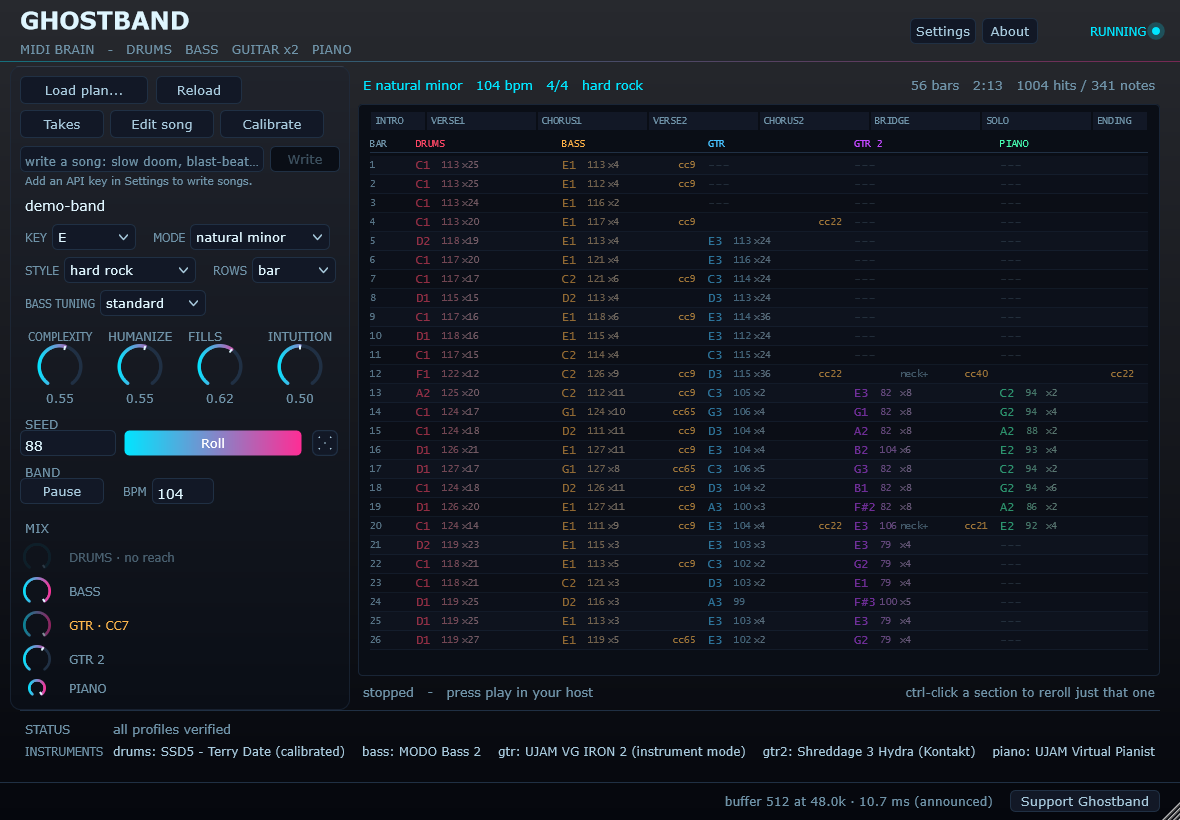
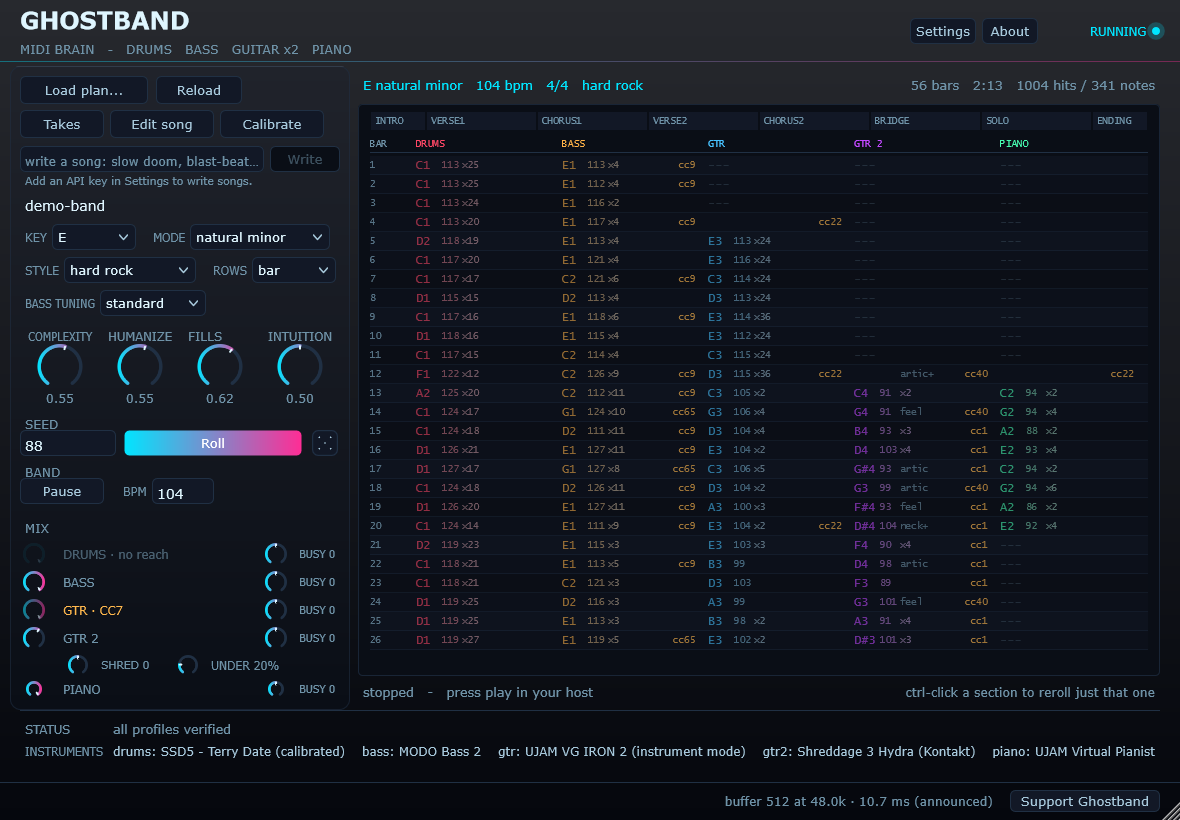
Version 2.4.0
The lead guitar finished (solos/fills v3, every Hydra articulation, twin
guitars, guitar 1 making room), BUSY/SHRED/UNDER verified per instrument,
click-a-bar jump, takes keep BUSY/SHRED, and the session-32 bug audit.
Manual, README and screenshots updated.

diff --git a/docs/MANUAL.md b/docs/MANUAL.md
@@ -68,45 +68,41 @@ The lead guitar has three things it can do in a section:
 | `fills` | short answering phrases in the gaps, and a soft picked arpeggio of the chord in between |
 | `silent` | nothing at all |
 
-**How it solos.** Each phrase picks a pulse - mostly eighths and quarters that
-ring into each other, with fast sixteenth runs as bursts rather than the whole
-fabric - and it never stands silent for a whole bar in the middle of a solo.
-Measured across all 34 songs: the typical solo note is an eighth, a fifth of them
-last a beat or more, and sixteenths are under a third.
+**How it solos (v2.4).** A solo is built like a player builds one: a motif,
+an answer to it, the motif again changed, a climb to a peak and a landing on a
+chord tone. Five **schools** shape it by the song's style - blues (the cry, the
+bend-and-release, the box, the wide B.B. King vibrato), melodic rock, neo-classical,
+NWOBHM (the gallop, the twin theme) and thrash (tremolo bursts, the chromatic
+crawl). Nothing is transcribed; each school is built from the techniques its
+players use.
 
-**Fills are what a second guitarist does for most of a song.** Soloing is the
-exception; answering the vocal line, doubling a riff into a chorus, and playing
-a pickup into the next section is the job.
-
-They use the same generator as the solos — the same devices, the same phrasing,
-because a fill that phrases differently from the solos in the same song does not
-sound like the same player. What changes is placement:
-
-- **mostly** at the end of a four-bar group, where the singer stops, plus the
-  last bar of the section for the run-up into what follows. The second bar is a
-  real possibility, the third happens because it is unexpected, and the first is
-  rare enough to be a statement
-- **not** every one of those, and never two bars running. Filling every opening
-  is a second solo
-- out of the **front** of the bar. The riff gets the downbeat; the answer comes
-  after. Where exactly varies — the half bar, the last quarter for a short
-  answer, off the half for a push, and a **pickup that starts before the bar
-  line and resolves inside it**
-- softer, because it answers somebody rather than competing
+**Fills are what a second guitarist does for most of a song** - answering the
+vocal line, a pickup into the next section. How solo-like a fill may be depends
+on the style: in a blues a fill can sound like a piece of a solo, in rock it is
+a short answer that stays out of the solo's way. Fills are softer than the solo,
+and never two line-endings in a row go unanswered.
 
 **Between answers it is not silent.** It picks a slow arpeggio of the chord
-underneath - half notes when the section is quiet, quarters in the middle,
-eighths when it is loud - low in its range and softer than the answers, and it
-**breaks off just before each answer** so the answer arrives as an entrance.
-Until v2.0.0 it played nothing at all between answers, which measured as silence
-77% of the time in a fills section, with gaps of up to 45 seconds. A guitar
-that drops out should do it for a second or two and for a reason, not leave
-empty space to do the talking.
+underneath, low and soft, and breaks off just before each answer so the answer
+arrives as an entrance.
 
-Until v0.6.0 both of those were absolutes — the fourth bar, dead on the half,
-every time — which made the *rhythm* of a fill identical in every song whatever
-the notes were. The tendency is what was worth keeping; the rule was what made
-it sound like an engine.
+**Every articulation, used where a player would** (Shreddage 3.5 Hydra, on the
+owner's own articulation map): rake into a note, pinch harmonic, natural
+harmonics, tapping, choke, hammer-ons and pull-offs, bend into a note, bend and
+release, pre-bend, slide into a note, vibrato and wide vibrato, legato slide,
+palm-muted lead (with dynamics - the beat dug in, the sixteenths tighter),
+staccato, tremolo picking, fret noise, slide in from / off the neck, thrash note,
+pick direction (alternate, down-picked when muted) and capo. Calibrate > GTR 2
+plays each one on its own; see *Calibration*.
+
+**Twin guitars.** In metal, hard rock, prog, thrash, groove and doom, the rhythm
+guitar stops strumming and plays the lead's line a diatonic third below - on the
+licks written for two guitars (the twin theme, the sequence, the gallop) and on
+every solo's closing phrase. Not in blues, punk, emo, alt rock, ballads or
+sludge, where it would be wrong.
+
+**The rhythm guitar makes room.** Under the lead's fill answers it holds its
+chord instead of strumming over them, and under a solo it plays a little softer.
 
 The **Fills** dial sets how many of the offered openings get taken. 0 silences
 them across the whole song without editing a section. The **Intuition** dial
@@ -186,6 +182,24 @@ read at leisure. **Walk the list** steps a selector through every position at
 half a second each, which is how you find out how many choices it really has —
 Teach is deliberately too fast to read.
 
+#### Guitar 2's volume in Kontakt (Shreddage 3.5 Hydra)
+
+The GTR 2 knob and UNDER need to reach Hydra's **output** volume - after its
+amp. Hydra's own VOLUME knob is the gain *into* the amp, so turning it down
+mostly cleans the tone up and barely changes the level.
+
+1. In Kontakt's **View** menu, turn on **Instrument Header**.
+2. Right-click the header's **Output Volume** slider and choose **Learn MIDI CC#
+   Automation**.
+3. In Ghostband, **Settings** > the lead guitar > **output volume** > **Teach**.
+4. Save the gig in your host.
+
+**Do not tick Kontakt's "Accept standard controllers for Volume (#7) and Pan
+(#10)".** On Kontakt 8.13.1 with Hydra, ticking it crashes Kontakt's interface
+(the sound keeps playing, the panel disappears). The learned slider does the same
+job without it. Loading a different Hydra preset from Kontakt's browser can
+clear the learn; if the GTR 2 knob stops moving the slider, repeat steps 2-4.
+
 ### The controls
 
 - **Load plan...** — a menu of every song Ghostband knows about: **Presets** by
@@ -243,6 +257,21 @@ Teach is deliberately too fast to read.
   None of them are ever hidden. A control that vanishes is indistinguishable
   from one that is broken, and one silent absence makes every other control
   suspect.
+- **BUSY** - one per part, under its mix knob. Down plays fewer notes, up more,
+  and the middle is the song exactly as written. Each instrument does it its own
+  way: the drums' hats a subdivision sparser or denser with fewer or more ghost
+  notes and kick pickups (in a shuffle the hats stop at swung eighths and the
+  extra goes to ghosts); the bass drops off-beat notes, or pushes the off-beat
+  and moves more (octaves, fifths, walk-ups into the next chord); the guitars
+  and piano thin out or add passing hits and answers.
+- **SHRED** - how the lead guitar leans. Down simplifies its fast runs to every
+  other note, held longer; up turns held notes and rests into sixteenth runs
+  that walk through the key into the next note. It edits the line the middle
+  plays rather than drawing a new one, so turning it is a change you can follow,
+  and it goes the right way in every song (checked on each build).
+- **UNDER** - how far the lead guitar drops while it plays fills (not solos):
+  0% no drop, about 1.8 dB per 10%, 100% silent. Solos always play at the full
+  GTR 2 level.
 
 ### Reading the grid, and editing it
 
@@ -494,6 +523,8 @@ thing. Saving under a name already in the list replaces it.
 
 What a take carries:
 
+- **BUSY** for each part and **SHRED** - how busy the band was playing is part
+  of the performance (from v2.4; an older take recalls them at the middle).
 - the **seed**, and **complexity**, **humanize** and **fills** — the seed alone
   does not reproduce what you heard, because all four feed the same random
   stream. Seed 88345 at humanize 0.5 is a different take from the same seed at
@@ -551,6 +582,14 @@ is true.
 marked NEXT — and lands on the next bar line, so the transition stays in time
 rather than lurching mid-beat. Clicking the section already playing restarts it
 at the next bar, which is how you hold a chorus for another eight bars.
+
+**Click any bar to go there**, while the band is playing: a click on a row of
+the grid lands on that bar's first beat at the next bar line. (Stopped, a click
+on a row edits it instead.) Landing in the middle of a section, Ghostband first
+re-sends what that section set up at its start - each instrument's articulation,
+latched key, hand position, pick direction and controllers - so the lead guitar
+does not arrive in the wrong articulation. A jump queued just before loading
+another song is cancelled with the old song.
 
 Every sounding note is released by name at the seam. Relying on All Notes Off
 alone is not enough: it is a controller message and many instruments ignore it,
@@ -649,6 +688,12 @@ profile and backs up the original first.
 
 No note numbers involved, and it works with the host transport stopped, because
 identifying a hi-hat underneath a full band is impossible.
+
+**The lead guitar's articulation test.** Calibrate has DRUMS, BASS and GTR 2
+tabs. GTR 2 plays every articulation Ghostband uses - 23 rows, rake to capo -
+one at a time through the real profile, each ending on a plain ringing note so
+you hear the articulation let go. Mark each **Sounds right** or **Wrong**; a
+wrong one points at the articulation map, not at your ears.
 
 There is also `ghostband.exe calibrate`, which writes the same sequence to a MIDI
 file with markers. Useful if you have a DAW; the in-plugin version is better if

diff --git a/TODO.md b/TODO.md
@@ -11,33 +11,33 @@ in [BACKLOG.md](BACKLOG.md); the questions only the owner can answer are in
 
 All on branch `fills-v3-wip`, installed in the owner's GP5, NOT on main or released.
 
-- [ ] **Fills v3** - the lick engine (Vai / Van Halen / Hammett / Satriani vocabulary,
+- [x] **Fills v3** (v2.4.0) - the lick engine (Vai / Van Halen / Hammett / Satriani vocabulary,
       every Shreddage articulation), per-playing timing, sung phrases between
       answers, shuffle-correct. Waiting on the owner's ears.
-- [ ] **Solos v3** - `generateLeadSolo`: motif + answer, AAB, development, build,
+- [x] **Solos v3** (v2.4.0) - `generateLeadSolo`: motif + answer, AAB, development, build,
       climax, resolution; complexity/intuition now drive it. Waiting on ears.
-- [ ] **New knobs** - UNDER (guitar 2 fills level), BUSY per instrument, SHRED.
+- [x] **New knobs** (v2.4.0, verified 2026-10-02) - UNDER (guitar 2 fills level), BUSY per instrument, SHRED.
       Waiting on ears.
-- [ ] **Release it** - merge to main, CHANGELOG, MANUAL, README, screenshots, NEXT,
+- [x] **Release it** (v2.4.0, 2026-10-02) - merge to main, CHANGELOG, MANUAL, README, screenshots, NEXT,
       cut the version. None of the docs describe session 29's work yet.
 
 ## Broken, or known to be short
 
-- [ ] **Takes do not remember BUSY / SHRED** - recalling a take plays it with the
+- [x] **Takes do not remember BUSY / SHRED** (fixed 2026-10-02) - recalling a take plays it with the
       knobs as they are now.
-- [ ] **Bass BUSY up is weak in a shuffle** (1248 -> 1271 notes on blues-3).
+- [x] **Bass BUSY up is weak in a shuffle** (fixed 2026-10-02: pushes + movement) (1248 -> 1271 notes on blues-3).
 - [ ] **Blues fills answers are short** - a shuffle bar leaves two thirds of a bar
       of room; they may need to reach into the bar before.
 - [ ] **Shreddage silent below ~40** - clamped around, never explained (BACKLOG C5).
       Needs one Calibrate run.
-- [ ] **Clean-up** - old `generateSolo` and `kSoloGestures` kept unused until the
+- [x] **Clean-up** (2026-10-02: 1,585 dead lines removed) - old `generateSolo` and `kSoloGestures` kept unused until the
       new solos are approved; the note-emitting loop is repeated three times.
 - [ ] **Host freezes** (not Ghostband) and **Kontakt 8.13.1 hanging on GP5 exit**
       (installer works around it) - both outside this code.
 
 ## Next, in order (owner's requests) - updated session 30
 
-0. [ ] **AFTER today's items (owner, 2026-10-02):** (a) VERIFY everything works
+0. [x] DONE 2026-10-02 (dials verified + fixed, audit done, v2.4.0): **AFTER today's items (owner, 2026-10-02):** (a) VERIFY everything works
        as intended - mainly that BUSY and SHRED audibly change things when
        turned; (b) a COMPREHENSIVE BUG AUDIT - find and fix everything. Without
        breaking anything approved (feedback-dont-break-the-good-stuff).
@@ -46,7 +46,7 @@ All on branch `fills-v3-wip`, installed in the owner's GP5, NOT on main or relea
        Kontakt's Vol slider to CC 85 (Settings > output volume > Teach). The GP5
        16-channel Audio Mixer block was making up the lost level (on/off only);
        disabled, UNDER fades properly. Guitar 2's balance is now the GTR 2 knob.
-0. [ ] **Solo doesn't sound louder than fills** even at full level (owner, 2026-09-27;
+0. [x] FIXED 2026-10-02 (it was the volume reaching pre-amp gain; learned Output Volume now) **Solo doesn't sound louder than fills** even at full level (owner, 2026-09-27;
        the Vol slider does rise at the solo, and the GTR 2 knob is audible in it).
        Lead: at the solo Ghostband flips Hydra's pickup neck->bridge (CC22 0->127)
        and bite 28->99 - likely thinner/quieter. Owner parked it for now.
@@ -64,11 +64,11 @@ All on branch `fills-v3-wip`, installed in the owner's GP5, NOT on main or relea
        it changes, at most ~20/s while playing, and not twice per move.
 0. [x] **Piano dial did nothing** - Virtual Pianist had lost its CC28 learn; owner
        re-taught it (Settings > volume > Teach), works (2026-09-27).
-0. [ ] **Capo** - the last articulation row (22 of 23 confirmed by ear
+0. [x] (owner mapped CC26, 2026-09-27) **Capo** - the last articulation row (22 of 23 confirmed by ear
        2026-09-27). Hydra's capo is a MIDI-learned knob, so it resets with the
        preset like the CC7 tick. Thrash note (27) is confirmed but not yet used
        in songs - fast same-pitch repeats are the place for it.
-0. [ ] Drums BUSY up is weak in a shuffle (+6%).
+0. [x] Drums BUSY up is weak in a shuffle (fixed 2026-10-02: 668/810/919 on Nine Cent Rain).
 0. [ ] One-click GP5 close that also clears Kontakt's hung process.
 
 1. [x] (2026-09-27: twin harmony + guitar 1 makes room done; unison hits and trading bars not chosen) **Guitar 1 and guitar 2 playing together** - harmonies, unison hits, trading

diff --git a/README.md b/README.md
@@ -52,12 +52,14 @@ and instrument profiles are already inside the bundle.
 | | |
 |---|---|
 | **A whole band** | Drums, bass, a rhythm guitar, a lead guitar and a piano, each on its own MIDI channel. The bass locks to the kick; the lead answers in the gaps and solos when the song says so. |
+| **A real lead guitarist** | Solos built from five schools (blues, melodic rock, neo-classical, NWOBHM, thrash) and every articulation Shreddage Hydra has - bends, slides, pinches, taps, palm mutes, tremolo, harmonics. In metal and hard rock the rhythm guitar joins it in **twin harmony**; elsewhere it gets out of the way. |
 | **Your instruments** | Ships with profiles for SSD5, MODO Bass 2, UJAM Virtual Guitarist IRON 2, Shreddage 3 Hydra and UJAM Virtual Pianist, plus General MIDI. Anything else is a small JSON file, and it can calibrate an unknown instrument by ear. |
 | **34 songs built in** | Hard rock, metal, thrash, groove, doom, sludge, prog, punk, alt-rock, emo, blues and ballads — each written to exercise a different part of the arranger. |
 | **Roll, don't rewrite** | **Roll** plays the same song differently. Ctrl-click a section to reroll only that one; the rest is provably untouched. One seed is one song, forever. |
 | **Four dials** | **Complexity**, **Humanize**, **Fills** and **Intuition** — how much the band plays what it feels like rather than what is obvious. |
+| **Mix it like a band** | A **BUSY** knob per player (sparser or busier, the middle is the song as written), **SHRED** for how hard the lead leans, and **UNDER** for how far it sits back under its fills. |
 | **Write a song** *(optional)* | Describe a song in a sentence and Claude writes the chart — with your own API key, encrypted on your machine. It lands as an ordinary song you can roll, edit and keep. |
-| **See what it sends** | The song screen is a tracker: every note, velocity and control change, per player, per bar. Click any bar to change its chord or its section's feel. |
+| **See what it sends** | The song screen is a tracker: every note, velocity and control change, per player, per bar. While it plays, click any bar to jump there; stopped, click it to change its chord or its section's feel. |
 | **And** | Takes, ten colour themes, a dice that rolls the whole song's character (right-click puts it back), a change log of every setting you touch, and a detector that tells a host freeze from a plugin one. |
 
 ## Screenshots

diff --git a/NEXT.md b/NEXT.md
@@ -6,15 +6,7 @@ useless for the one job it has: telling whoever picks this up next what is true
 right now. The history is in `docs/archive/NEXT-through-session-13.md`, and
 nobody has to read it.
 
-**Last touched 2026-09-27, session 31.** On `fills-v3-wip`, pushed and
-INSTALLED; `main` = v2.3.0. Session 31: UNDER works (Kontakt's rack volume via
-the CC7 "Accept standard controllers" tick - per Hydra PRESET, resets on a
-preset change; Hydra's own VOLUME is pre-amp gain, unmapped), all 23 guitar 2
-articulation rows confirmed by ear, palm-mute dynamics, twin guitars + guitar 1
-making room, click-a-bar jump, levels restated on load/audition, gentle level
-sending after a Kontakt crash. FIRST NEXT: owner's verdict on twin guitars,
-making room and the bar jump; then cut v2.4.0 (merge to main, manual,
-screenshots). Then: warn when the Kontakt tick is lost; thrash note in songs.
+**Last touched 2026-10-02, session 32. v2.4.0 RELEASED** (main = v2.4.0). Everything from sessions 29-32 is in it and approved by ear: solos and fills v3, all 23 Hydra articulations, twin guitars, guitar 1 making room, BUSY/SHRED/UNDER (verified per instrument, checks guard them), click-a-bar jump, takes keep BUSY/SHRED. Guitar 2 volume = Kontakt Instrument Header Output Volume, MIDI-learned on CC7 - NEVER the "Accept standard controllers" tick, which crashes Kontakt 8.13.1. NEXT: whatever the owner hears next; open items in TODO.md.
 
 ## State
 

diff --git a/CHANGELOG.md b/CHANGELOG.md
@@ -5,9 +5,11 @@ measured, not estimated; where something could not be measured yet, it says so.
 
 Downloads are on the [releases page](https://github.com/mourninggrace/Ghostband/releases).
 
-## [Unreleased] — branch `fills-v3-wip`, installed for listening
+## [2.4.0] — 2026-10-02
 
-Session 29. Built and measured; not released until the owner has listened.
+The lead guitar, finished: new solos and fills, every Shreddage Hydra
+articulation, twin guitars, and the mix knobs (BUSY, SHRED, UNDER) - all heard
+and approved by ear. Then a bug audit. Sessions 29-32.
 
 ### Changed
 - **The lead guitar's fills are licks now, not a bed.** A vocabulary drawn from
